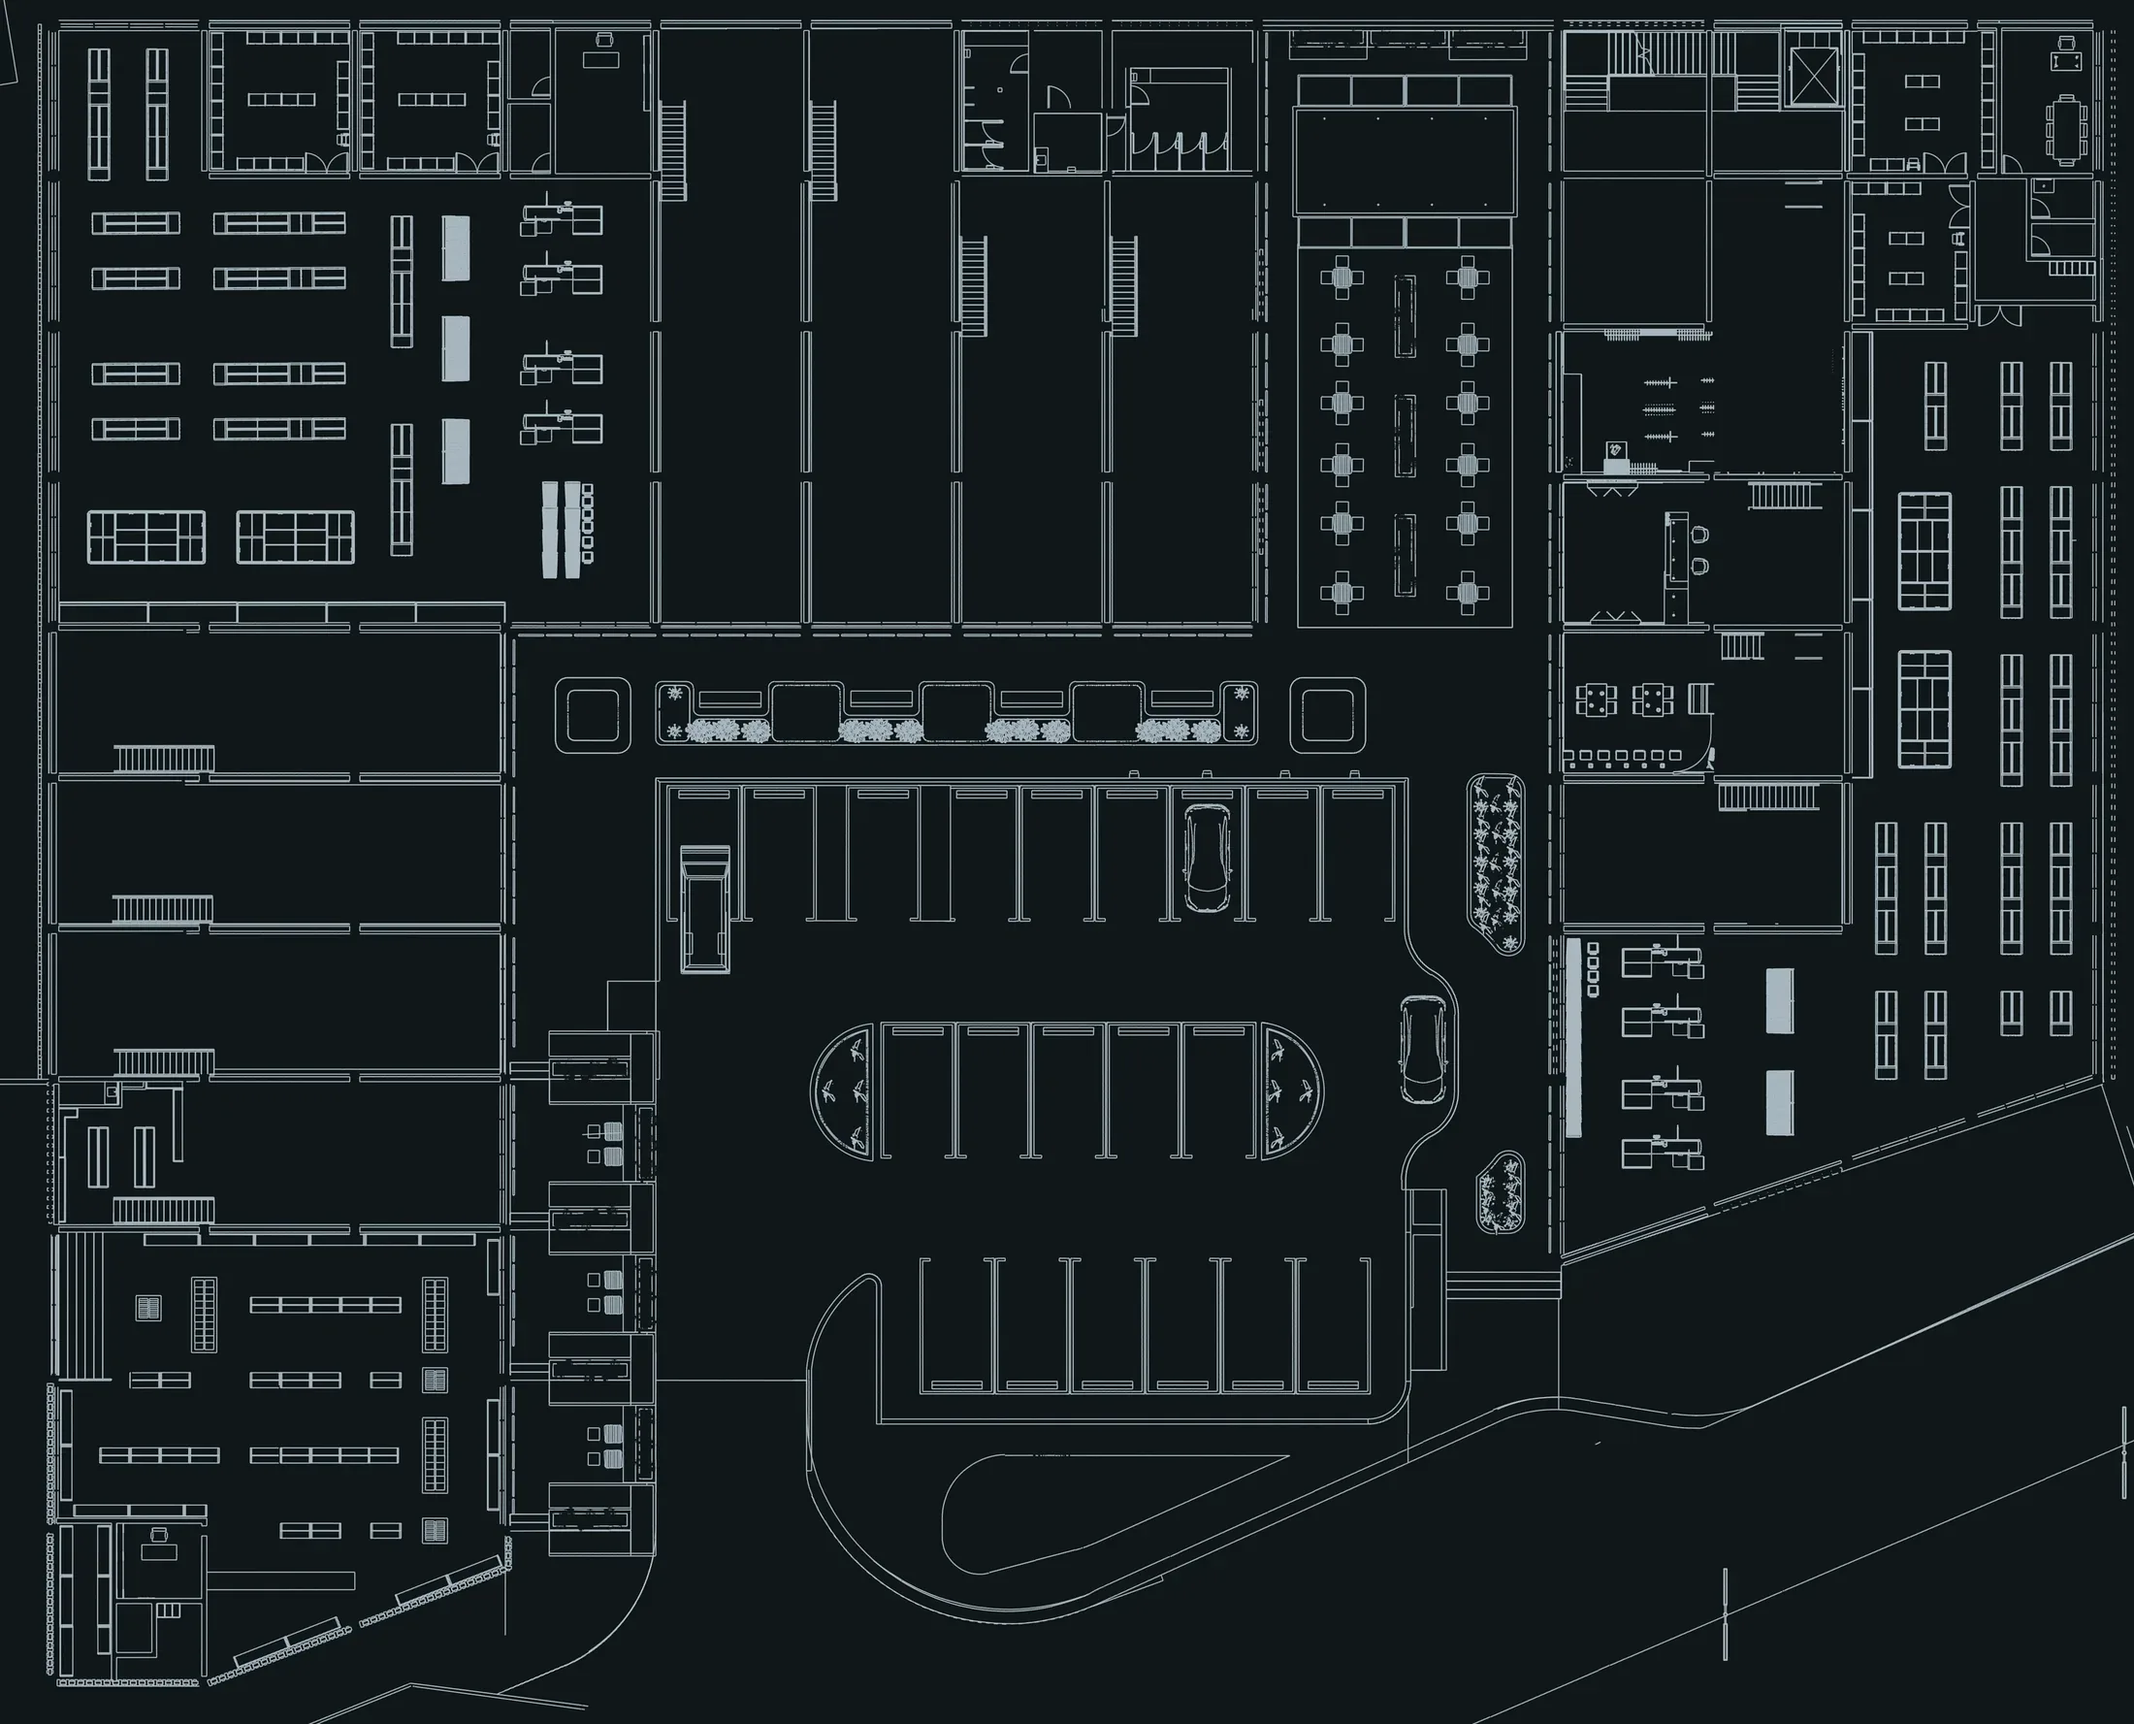
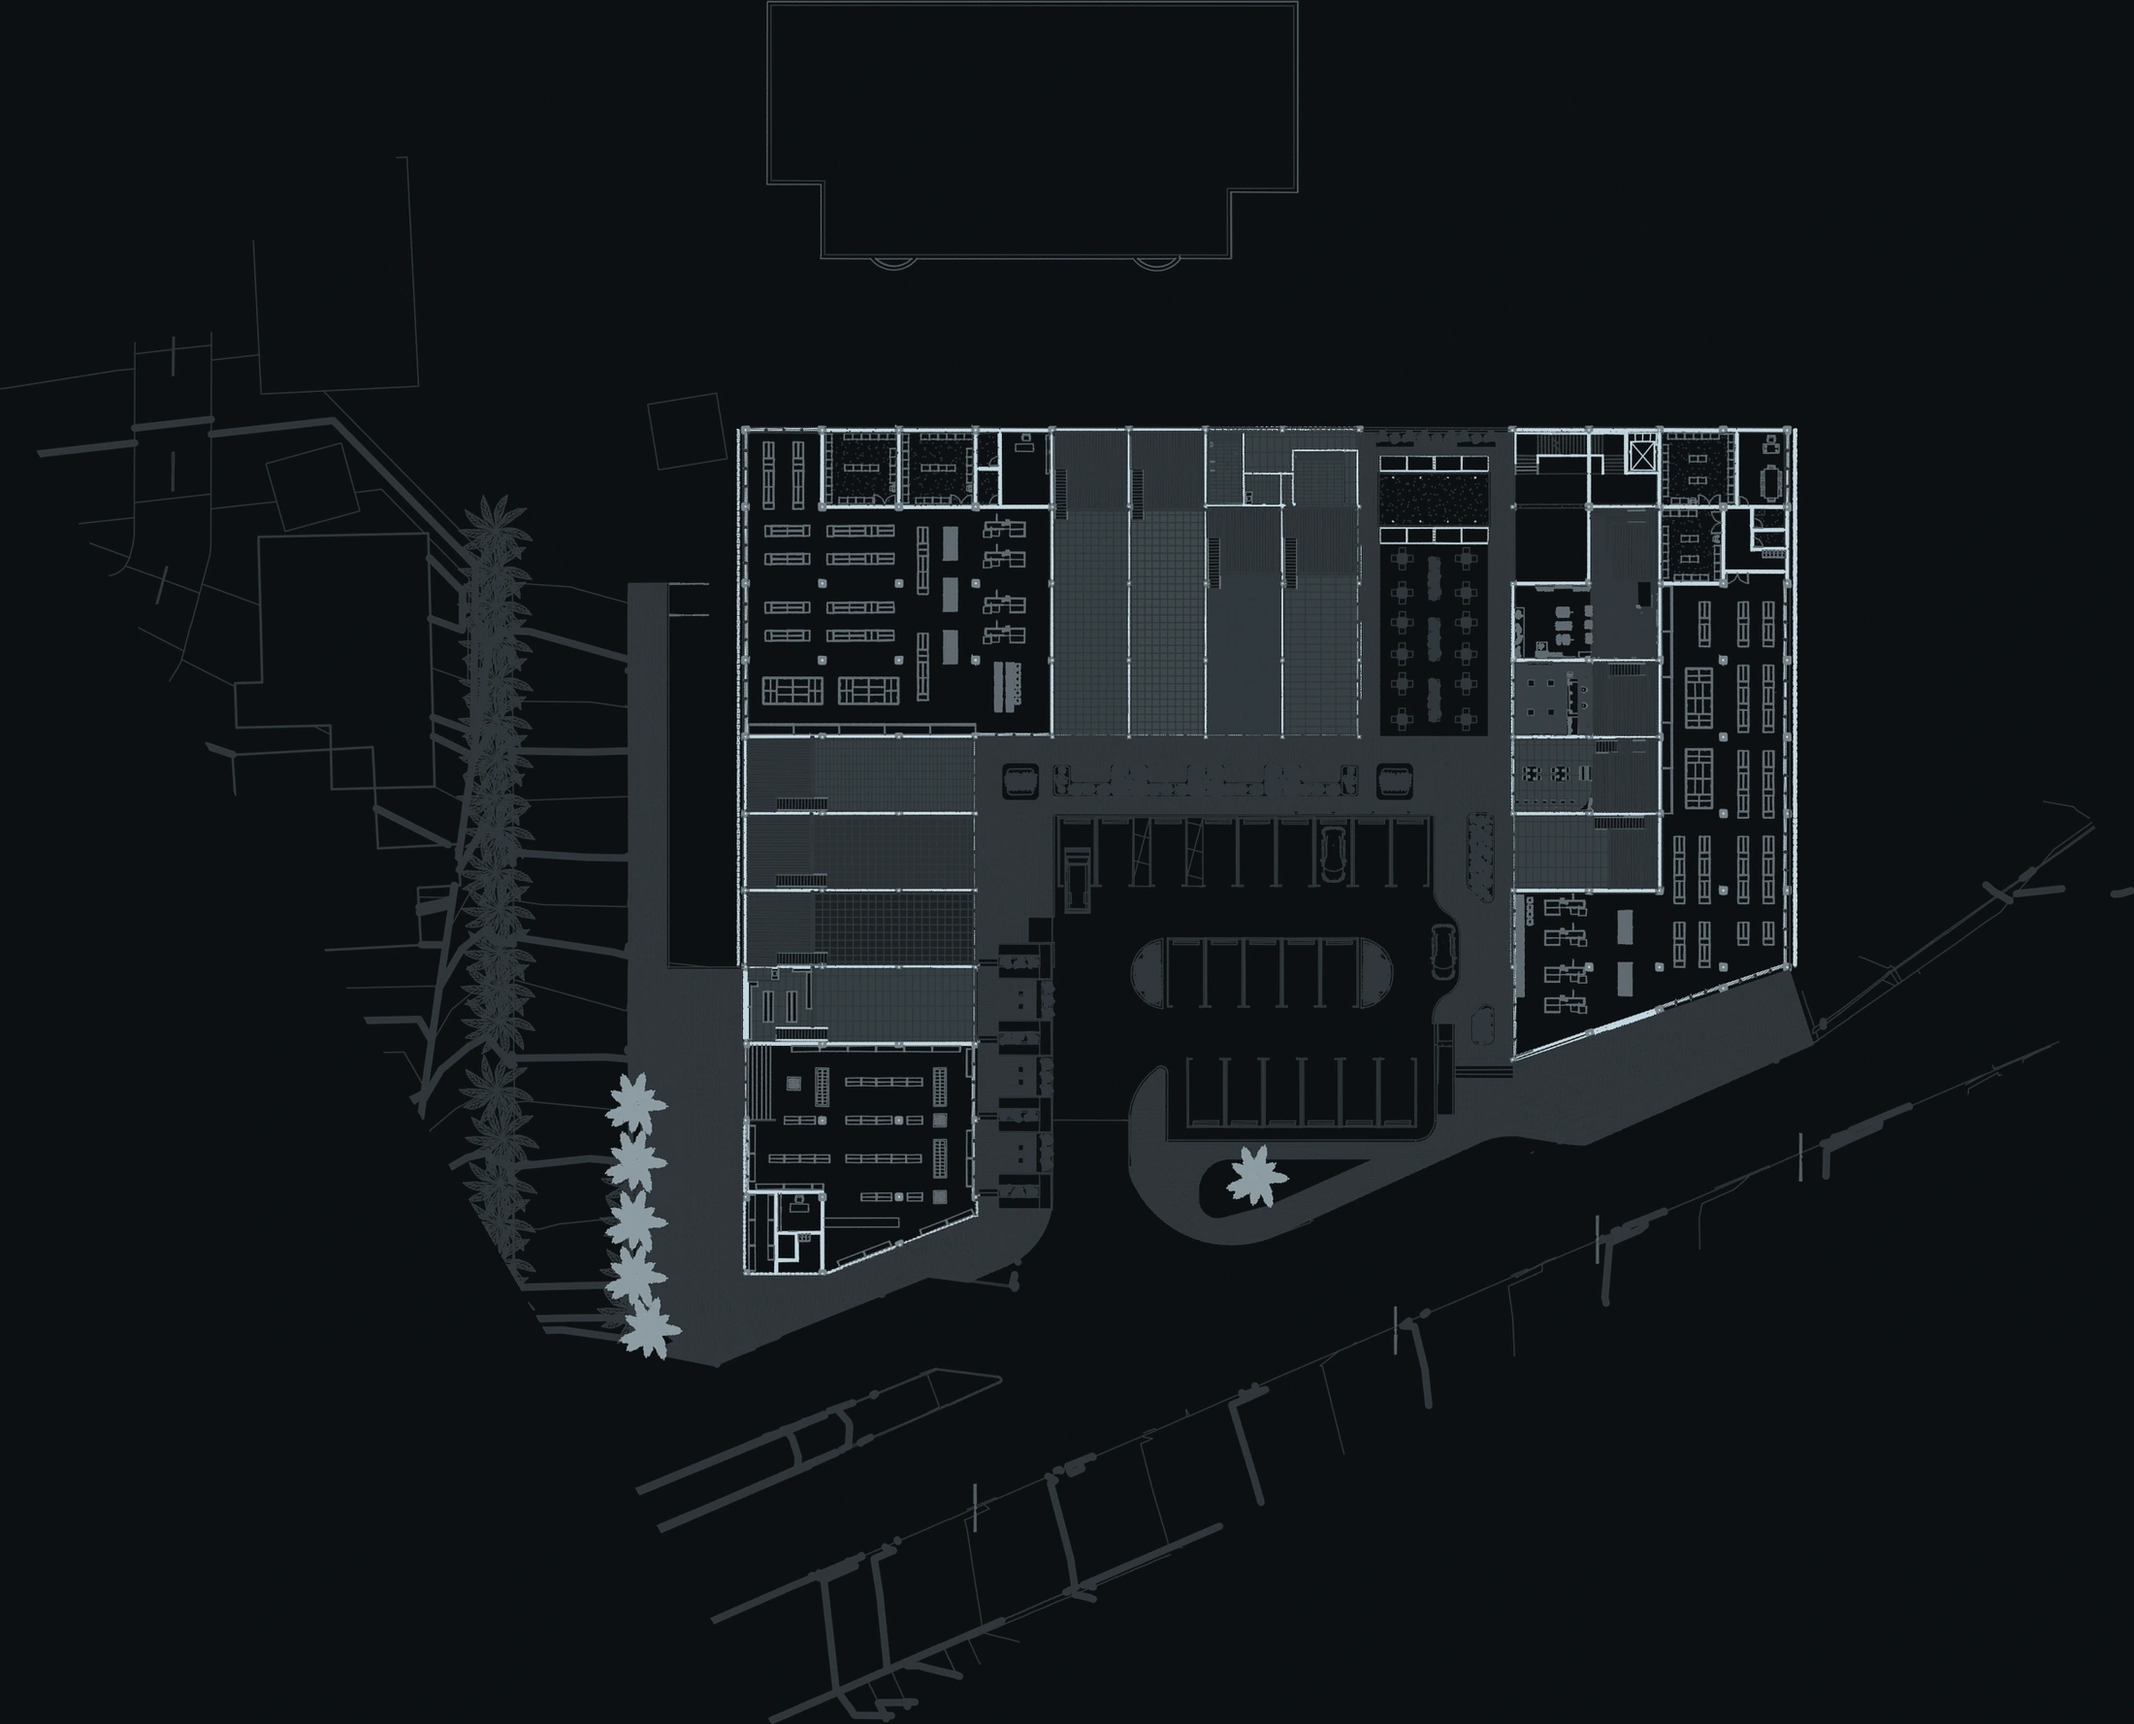
Actualizar plano primer piso desde nuevo DWG manteniendo estetica CAD oscura e interactividad

diff --git a/script.js b/script.js
@@ -282,7 +282,7 @@ const LEVELS = {
       const geometry = Object.fromEntries(Object.entries(geoP1).map(([id, g]) => [id, {
         pts: g.pts.map(rotate), ...(g.c ? { c: rotate(g.c) } : {})
       }]));
-      return renderCadPlan(units, geometry, 'assets/plano-piso1-cad.webp', 780, 630,
+      return renderCadPlan(units, geometry, 'assets/plano-piso1-cad.webp?v=67', 780, 630,
         'Planta arquitectónica del primer piso de Rivers Mall');
     }
   },

diff --git a/index.html b/index.html
@@ -281,6 +281,6 @@
 </div>
 
 <script src="https://cdnjs.cloudflare.com/ajax/libs/leaflet/1.9.4/leaflet.min.js"></script>
-<script src="script.js?v=66"></script>
+<script src="script.js?v=67"></script>
 </body>
 </html>
